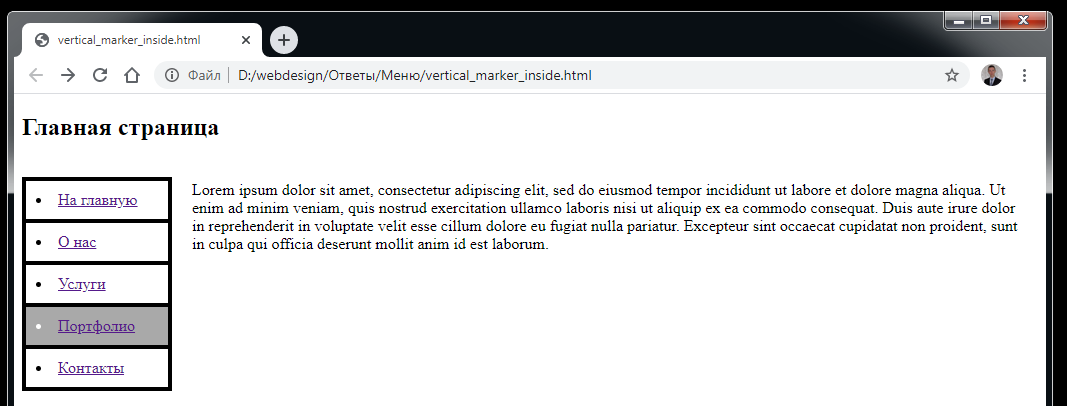
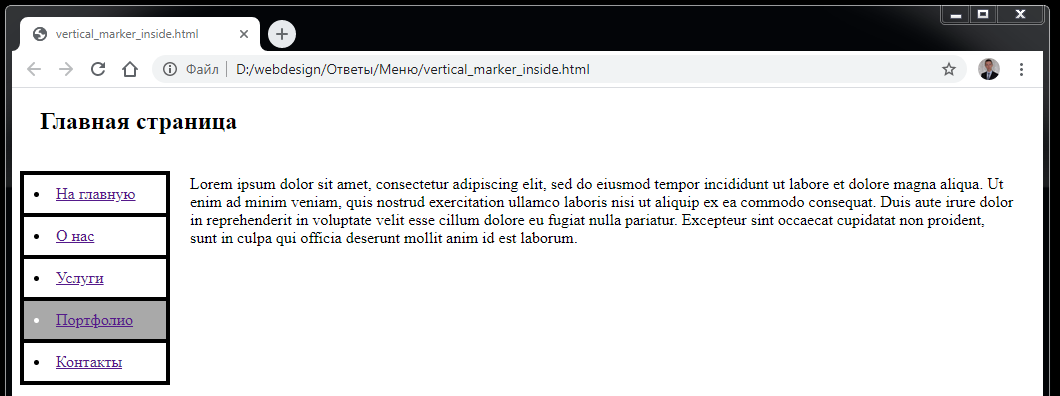
add horizontal menu with marker between items

Changed region(s): [[0.0, 0.0, 0.9962, 1.0]]

diff --git a/Ответы/Меню/horizontal_marker_between.html b/Ответы/Меню/horizontal_marker_between.html
@@ -4,29 +4,33 @@
 		<meta charset="utf-8"/>
 		<style>
 h2 {
+	float:left;
 	padding-left:20px;
 }
 ul {
 	padding-inline-start:0px;
-	list-style-position: inside;
-	width:150px;
-	float:left;
+	float:right;
 }
 li {
-	border: 4px solid black;
-	padding:10px;
+    display:inline-block;
+	padding:10px 10px 10px 0px;
 }
-div {
-	width:calc(100% - 190px);
-	padding:20px;
-	float:left;
+li:not(:first-of-type)::before {
+	content:"-";
+	padding:10px 13px 10px 0px;
+	font-size:16px;
+}
+li:not(:first-of-type):hover::before {
+    padding:0px 3px 0px 0px;
 }
 li:hover {
-	color: white;
-	background-color:darkgrey;
+	font-size:20px;
+	font-weight:bold;
+	padding:0px;
 }
-li:not(:first-of-type){
-	border-top-width:0px;
+div {
+	clear:both;
+	padding:20px;
 }
 		</style>
 	</head>
